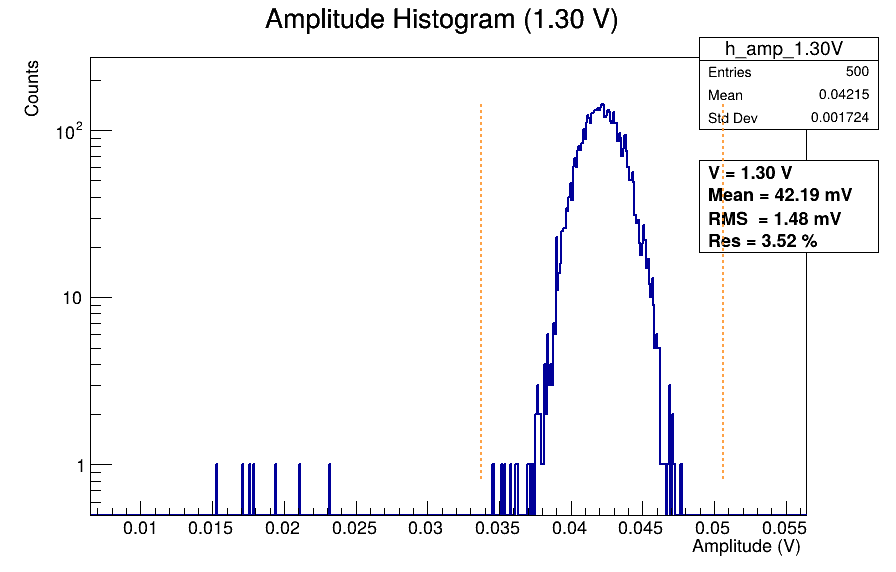
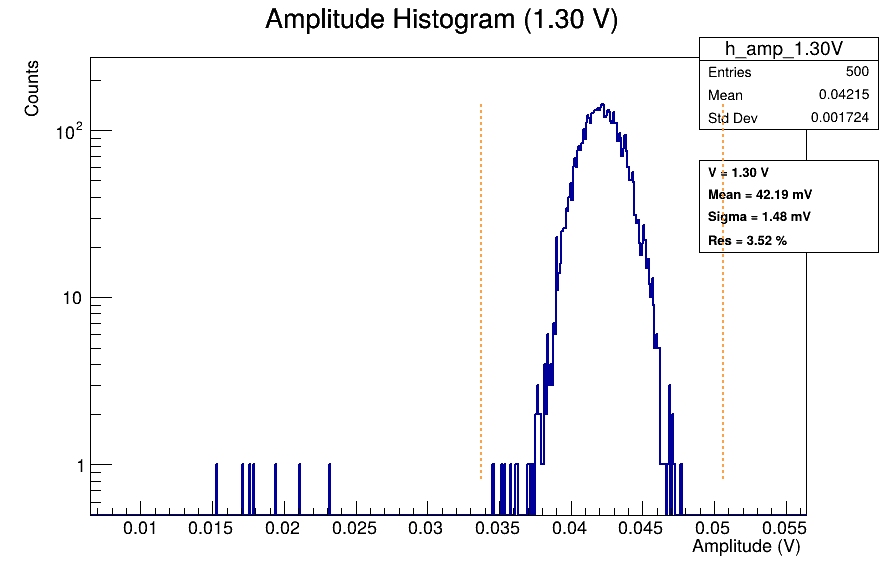
⚡ Attempt to make crystal ball fit

Changed region(s): [[0.7812, 0.2675, 0.9688, 0.4458]]

diff --git a/Test_LED_Analysis/Res_amplitude/plot_all_amplitude_hists.py b/Test_LED_Analysis/Res_amplitude/plot_all_amplitude_hists.py
@@ -4,6 +4,9 @@ import math
 import os
 import re
 
+ROOT.gROOT.SetBatch(True)      # no pop-up canvases
+# ROOT.gStyle.SetOptStat(0)     # remove stats box (Mean/RMS box)
+
 # --------------------------------------------------
 # Paths (EDIT ONLY THESE if needed)
 # --------------------------------------------------
@@ -101,13 +104,6 @@ for csv_file in csv_files:
     
     bin_low  = h.FindBin(low_edge)
     bin_high = h.FindBin(high_edge)
-
-    # # --------------------------------------------------
-    # # Compute resolution = RMS/Mean
-    # # --------------------------------------------------
-    # mean = h.GetMean()
-    # rms  = h.GetRMS()
-    # resolution = (rms / mean) if mean != 0 else 0.0
     
     # --------------------------------------------------
     # Compute mean/RMS in the selected window only
@@ -135,24 +131,133 @@ for csv_file in csv_files:
     resolution = (rms / mean) if mean != 0 else 0.0
 
     # --------------------------------------------------
+    # Crystal Ball fit (fit on a normalized clone)
+    # --------------------------------------------------
+    
+    # # Better initial sigma guess: use your window RMS
+    # sigma0 = max(rms, 1e-6)
+    # # TF1: [0] = N (norm), [1]=alpha, [2]=n, [3]=mean, [4]=sigma
+    
+    # Make a clone to fit as a PDF (unit area)
+    h_fit = h.Clone(f"{h.GetName()}_fit")
+    h_fit.SetDirectory(0)
+    
+    I = h_fit.Integral("width")
+    if I > 0:
+        h_fit.Scale(1.0 / I)
+    
+    fname = f"cb_{voltage_tag}"
+    if ROOT.gROOT.FindObject(fname):
+        ROOT.gROOT.FindObject(fname).Delete()
+
+    # cb = ROOT.TF1(
+    #     fname,
+    #     "crystalball",
+    #     low_edge,
+    #     high_edge
+    # )
+    
+    # Fit function: built-in TF1 "crystalball" has 4 params: alpha, n, mean, sigma
+    cb = ROOT.TF1(fname, "crystalball", low_edge, high_edge)
+    
+    # Better initial sigma guess: use your window RMS (fallback if rms==0)
+    sigma0 = rms if rms > 0 else 0.02 * peak_amp
+    
+    # Initial parameters (VERY important for convergence)
+    cb.SetParameters(
+        1.5,        # alpha
+        3.0,        # n
+        peak_amp,   # mean
+        sigma0      # sigma
+    )
+    
+    # Parameter limits (stabilizes the fit)
+    cb.SetParLimits(0, 0.2, 5.0)                  # alpha
+    cb.SetParLimits(1, 1.0, 50.0)                 # n
+    cb.SetParLimits(2, low_edge, high_edge)       # mean
+    cb.SetParLimits(3, 0.1*sigma0, 10.0*sigma0)   # sigma
+    
+    # Perform fit
+    fit_res = h_fit.Fit(cb, "RQS")  # R=range, Q=quiet, S=store result, 0=no draw
+    status = int(fit_res)
+
+    if status != 0:
+        print(f"⚠ Fit failed for {csv_file} (status={status}) -> using window RMS/Mean")
+        mean_fit = mean
+        sigma_fit = rms
+    else:
+        mean_fit  = cb.GetParameter(2)
+        sigma_fit = cb.GetParameter(3)
+
+    resolution_fit = sigma_fit / mean_fit if mean_fit != 0 else 0.0
+    
+
+    # # --------------------------------------------------
+    # # Compute resolution = RMS/Mean
+    # # --------------------------------------------------
+    # mean = h.GetMean()
+    # rms  = h.GetRMS()
+    # resolution = (rms / mean) if mean != 0 else 0.0
+    
+    # --------------------------------------------------
+    # Build a scaled curve to overlay on the ORIGINAL histogram (counts)
+    # Scale by matching the peak height
+    # --------------------------------------------------
+    cb.SetNpx(800)
+    
+    # If fit succeeded, scale the PDF curve to the histogram counts for display
+    if status == 0:
+        y_cb_at_peak = cb.Eval(mean_fit)
+        scale = (h.GetMaximum() / y_cb_at_peak) if y_cb_at_peak > 0 else 1.0
+
+        xs = ROOT.std.vector('double')()
+        ys = ROOT.std.vector('double')()
+
+        npts = 400
+        for i in range(npts):
+            xx = low_edge + (high_edge - low_edge) * i / (npts - 1)
+            xs.push_back(xx)
+            ys.push_back(scale * cb.Eval(xx))
+
+        g_cb = ROOT.TGraph(npts, xs.data(), ys.data())
+        g_cb.SetLineColor(ROOT.kRed + 2)
+        g_cb.SetLineWidth(2)
+    else:
+        g_cb = None
+
+    del h_fit
+    
+
+    # --------------------------------------------------
     # Draw and save
     # --------------------------------------------------
-    c1 = ROOT.TCanvas("c1", "c1", 900, 600)
+    c1 = ROOT.TCanvas(f"c_{voltage_tag}", f"c_{voltage_tag}", 900, 600)
     c1.SetLogy()
     h.SetLineWidth(2)
     h.Draw("HIST")
+    
+    # # Draw fit on histogram
+    # if status == 0:
+    #     cb.SetLineColor(ROOT.kRed + 2)
+    #     cb.SetLineWidth(2)
+    #     cb.Draw("SAME")
+    
+    # Draw scaled fit curve (only if fit succeeded)
+    if g_cb:
+        g_cb.Draw("L SAME")
 
     # Text box
     pt = ROOT.TPaveText(0.78, 0.56, 0.98, 0.72, "NDC")
     pt.SetFillColor(0)
     pt.SetBorderSize(1)
     pt.SetTextAlign(12)
-    pt.SetTextSize(0.035)
+    pt.SetTextSize(0.025)
 
+    # pt.AddText("Crystal Ball fit")
     pt.AddText(f"V = {voltage_label}")
-    pt.AddText(f"Mean = {mean * 1e3:.2f} mV")
-    pt.AddText(f"RMS  = {rms * 1e3:.2f} mV")
-    pt.AddText(f"Res = {resolution*100:.2f} %")
+    pt.AddText(f"Mean = {mean_fit * 1e3:.2f} mV")
+    pt.AddText(f"Sigma = {sigma_fit * 1e3:.2f} mV")
+    pt.AddText(f"Res = {resolution_fit*100:.2f} %")
     # pt.AddText(f"Window: [{low_edge:.1f}, {high_edge:.1f}] mV")
     pt.Draw()
     
@@ -163,6 +268,15 @@ for csv_file in csv_files:
     l1.SetLineColorAlpha(ROOT.kOrange + 1, 0.9)
     l2.SetLineColorAlpha(ROOT.kOrange + 1, 0.9)
     l1.Draw("SAME"); l2.Draw("SAME")
+    
+    # Legend
+    if g_cb:
+        leg = ROOT.TLegend(0.15, 0.75, 0.45, 0.88)
+        leg.SetBorderSize(1)
+        leg.SetFillStyle(0)
+        leg.AddEntry(h, "Amplitude histogram", "l")
+        leg.AddEntry(g_cb, "Crystal Ball fit", "l")
+        leg.Draw()
 
     # out_pdf = os.path.join(OUT_DIR, f"hist_amplitude_{voltage_tag}.pdf")
     out_png = os.path.join(OUT_DIR, f"hist_amplitude_{voltage_tag}_window.png")
